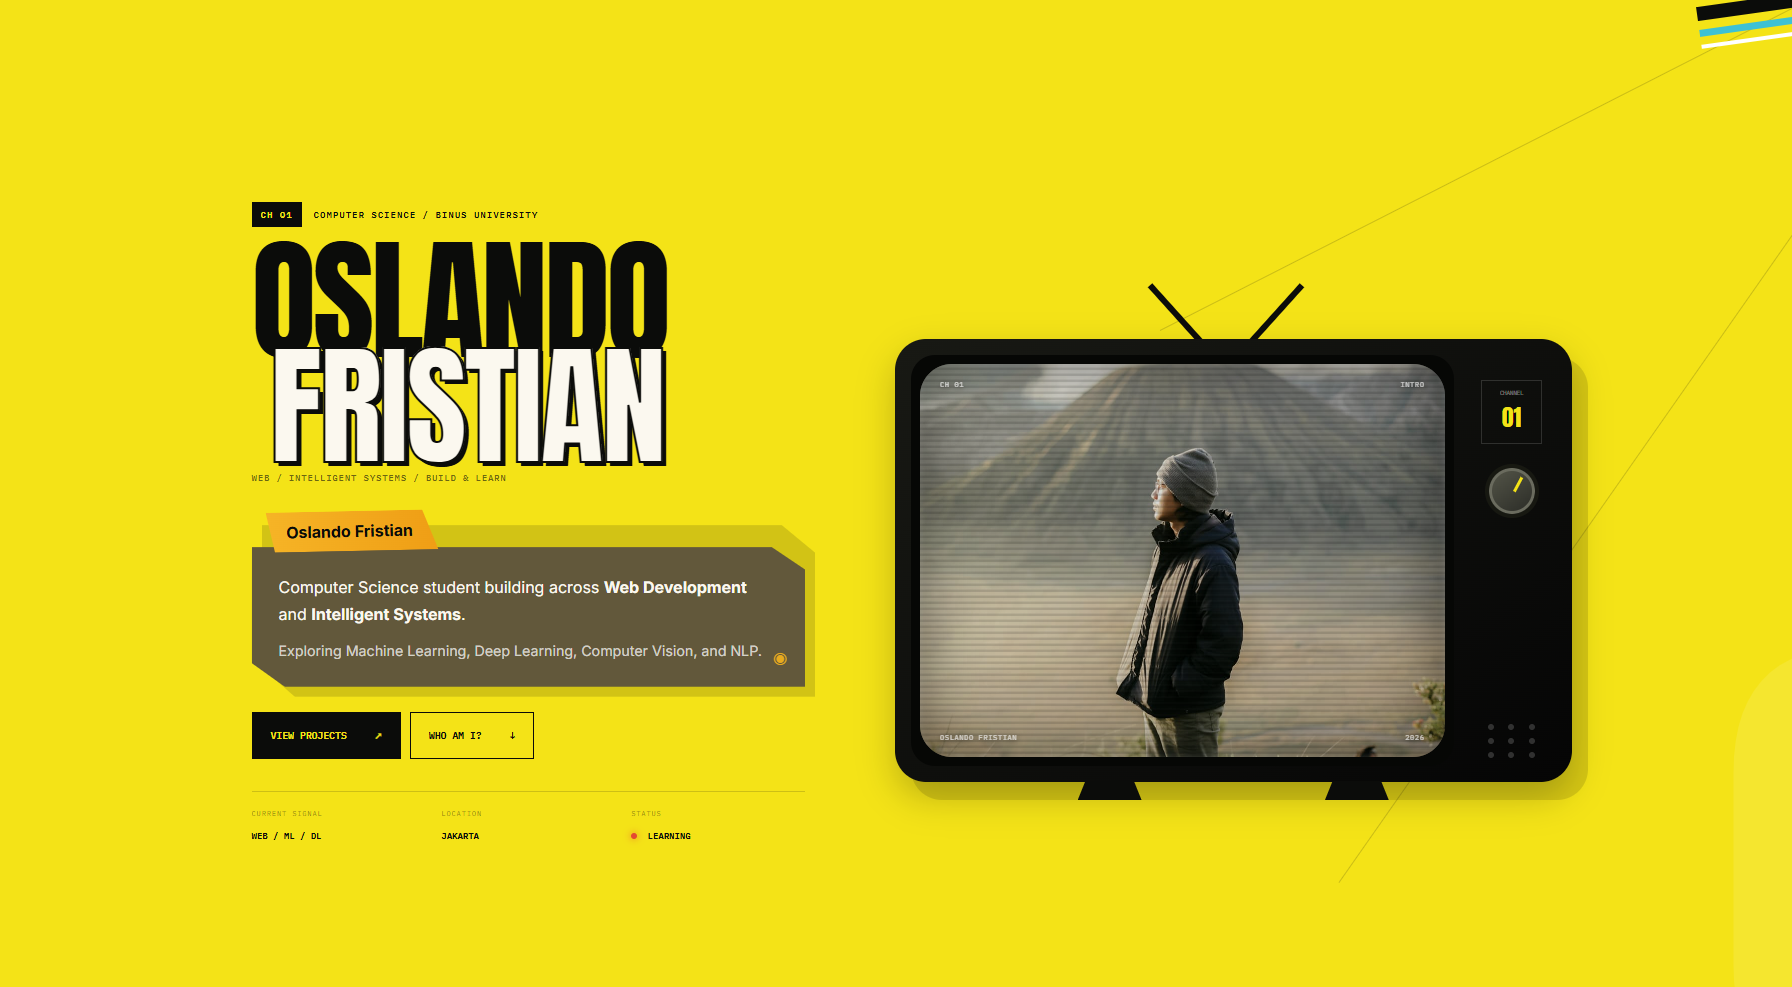
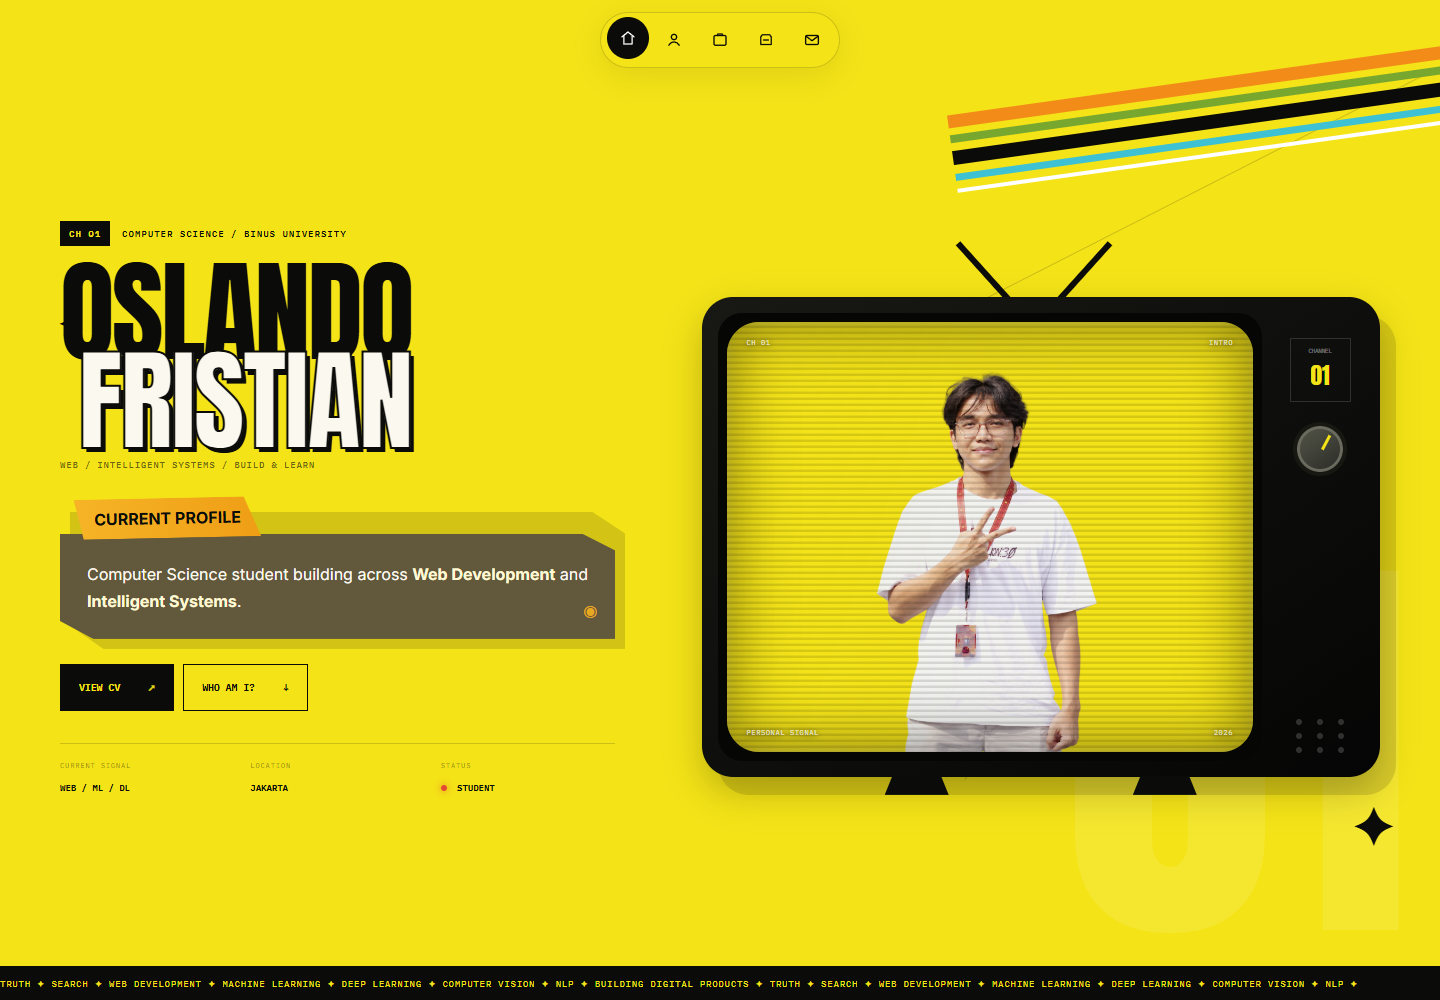
Update project dialogs, home TV layout, CV link, and portfolio preview

diff --git a/style.css b/style.css
@@ -105,6 +105,16 @@ button,a{-webkit-tap-highlight-color:transparent}
 @keyframes ticker{to{transform:translateX(-50%)}}
 @keyframes crtflash{0%{opacity:0;transform:scaleY(.5)}35%{opacity:1}100%{opacity:0;transform:scaleY(4)}}
 
+/* Match the desktop TV height to the profile column. */
+@media(min-width:1101px){
+  .hero-grid{align-content:center}
+  .tv-stage{align-self:stretch;display:flex;flex-direction:column;padding-bottom:18px}
+  .tv-stage .tv{flex:1;display:flex;flex-direction:column}
+  .tv-stage .tv__inner{flex:1}
+  .tv-stage .tv__bezel{display:flex;flex-direction:column}
+  .tv-stage .tv__screen{flex:1;aspect-ratio:auto;min-height:360px}
+}
+
 @media(max-width:1100px){
   .hero-grid,.about-intro,.about-index,.experience-grid,.project-broadcast,.contact-grid,.modal__grid{grid-template-columns:1fr}
   .hero-copy{max-width:780px}.tv-stage{justify-self:center;width:min(100%,820px);margin-top:25px;transform:none}.project-intro{grid-template-columns:1fr}.project-deck{grid-template-columns:repeat(2,1fr)}.program-card:nth-child(n){transform:none}.project-tv{width:min(100%,850px)}.contact-links{max-width:650px}
@@ -160,3 +170,32 @@ button,a{-webkit-tap-highlight-color:transparent}
 .project-broadcast__copy>small{color:rgba(11,12,10,.55)}
 .project-broadcast__copy>span{display:inline-block;padding:5px 8px;background:rgba(11,12,10,.06)}
 @media(max-width:700px){.education-logo{width:150px;height:150px}.education-logo img{width:136px;height:136px}.education-block h3{font-size:2rem}.skill-groups>div{grid-template-columns:1fr}}
+
+/* Project broadcast dialogue */
+.modal__set{width:min(1180px,100%)}
+.modal__screen{padding:clamp(24px,4vw,48px);background:var(--paper)}
+.modal__screen header{padding-bottom:18px;border-bottom:1px solid rgba(11,12,10,.16)}
+.modal__screen header>span{padding:8px 10px;background:var(--ink);color:var(--yellow)}
+.modal__screen header button{background:var(--yellow);font-size:1.3rem;transition:background .18s ease}
+.modal__screen header button:hover{background:var(--ink);color:var(--yellow)}
+.modal__grid{grid-template-columns:1fr 1.05fr;gap:32px;align-items:start}
+.modal__visual{min-height:0;border:8px solid var(--ink);border-radius:12px;box-shadow:7px 7px 0 var(--yellow)}
+.modal__visual>img{aspect-ratio:4/3;object-fit:contain;background:var(--ink)}
+.modal__visual:has(.project-visual--upcoming){min-height:280px}
+.modal__copy>small{display:block;line-height:1.7;letter-spacing:.12em}
+.project-dialog{position:relative;margin:18px 7px 0 0;isolation:isolate}
+.project-dialog::before{content:"";position:absolute;z-index:-1;inset:38px -7px -7px 7px;background:var(--yellow);transform:rotate(1deg)}
+.project-dialog h2{position:relative;z-index:1;display:table;max-width:100%;margin-left:12px;margin-bottom:-2px;padding:12px 30px 14px 18px;background:linear-gradient(100deg,#ffc63b,#f39a13);color:var(--ink);font:700 clamp(1.5rem,3vw,2.2rem) var(--condensed);line-height:1;clip-path:polygon(0 0,94% 5%,100% 100%,0 95%);transform:rotate(-1deg)}
+.project-dialog__body{position:relative;padding:25px 25px 42px;background:linear-gradient(115deg,#716543,#514a34);color:var(--white);border-left:3px solid #efac28;box-shadow:0 10px 20px rgba(11,12,10,.12)}
+.project-dialog__body p{font-size:.96rem;line-height:1.8}
+.project-dialog__cue{position:absolute;right:17px;bottom:10px;color:#ffbe2d;font-size:1.5rem;line-height:1}
+.modal__highlights{margin-top:27px;gap:0;counter-reset:highlights}
+.modal__highlights span{display:flex;gap:12px;align-items:baseline;padding:10px 0;line-height:1.5}
+.modal__highlights span::before{counter-increment:highlights;content:"0" counter(highlights);font:600 .6rem var(--mono);color:#7b6a2c}
+.modal__tech{margin-top:18px;gap:7px}
+.modal__tech span{background:#e8e4d7;font-size:.55rem;padding:7px 9px;border-color:rgba(11,12,10,.2)}
+.modal__copy>a{padding:13px 18px;background:var(--ink);color:var(--yellow);border:0;font-size:.65rem}
+.modal__copy>a[hidden]{display:none}
+.modal__status{margin-top:16px;font-size:.55rem;line-height:1.6}
+@media(max-width:850px){.modal__grid{grid-template-columns:1fr}.modal__visual{width:100%;max-width:560px}.modal__visual>img{aspect-ratio:16/9}.project-dialog h2{font-size:1.8rem}}
+@media(max-width:700px){.modal__screen{padding:22px 18px}.modal__grid{gap:25px}.project-dialog__body{padding:22px 18px 38px}.modal__screen header{gap:12px}.modal__screen header>span{font-size:.48rem}.modal__screen header button{flex-shrink:0}}

diff --git a/index.html b/index.html
@@ -292,8 +292,13 @@
           <div class="modal__visual" id="modalVisual"><img id="modalImage" src="assets/project-leaf.png" alt="LeafLens project screenshot" /></div>
           <div class="modal__copy">
             <small id="modalCategory">COMPUTER VISION / MACHINE LEARNING</small>
-            <h2 id="modalTitle">LEAFLENS</h2>
-            <p id="modalDescription"></p>
+            <div class="project-dialog">
+              <h2 id="modalTitle">LEAFLENS</h2>
+              <div class="project-dialog__body">
+                <p id="modalDescription"></p>
+                <span class="project-dialog__cue" aria-hidden="true">◉</span>
+              </div>
+            </div>
             <div class="modal__highlights" id="modalHighlights"></div>
             <div class="modal__tech" id="modalTech"></div>
             <a id="modalGithub" href="#" target="_blank" rel="noopener noreferrer">VIEW GITHUB ↗</a>
